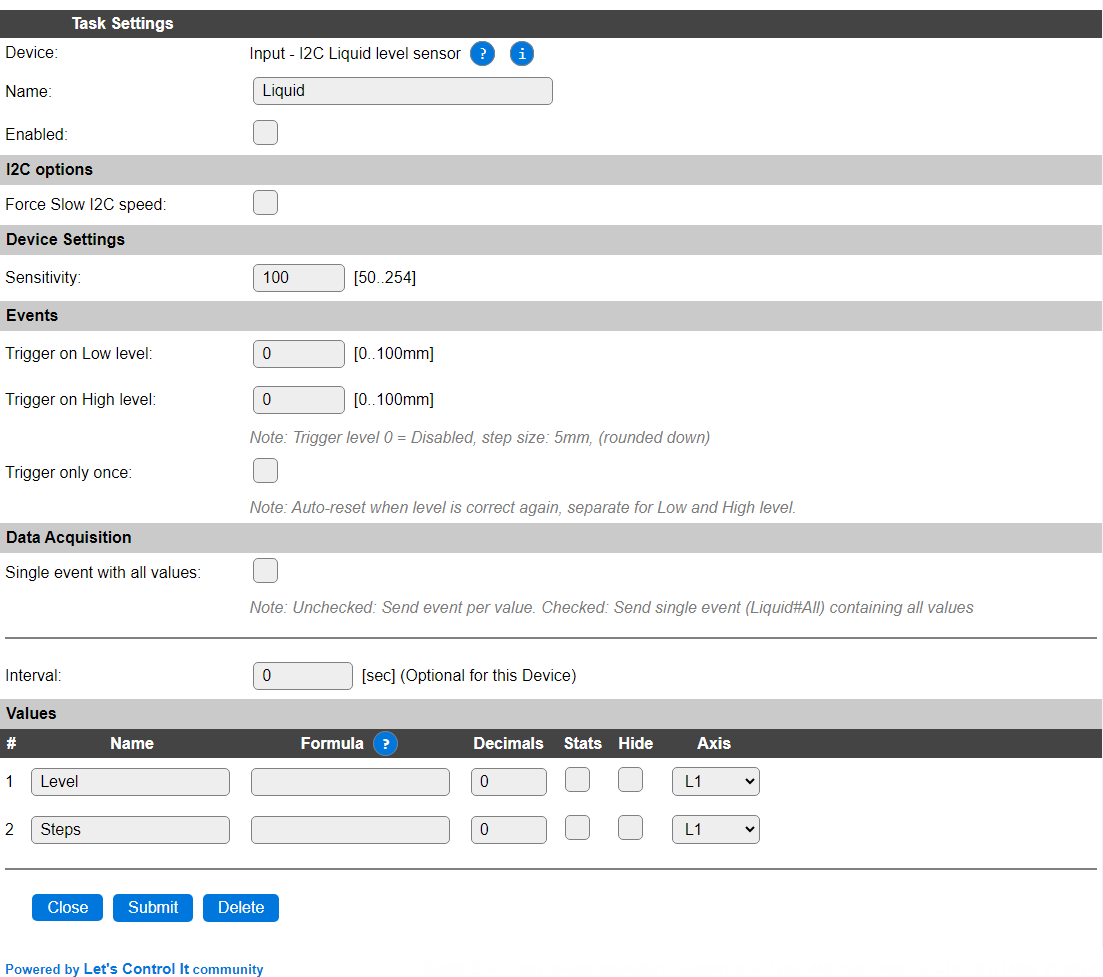
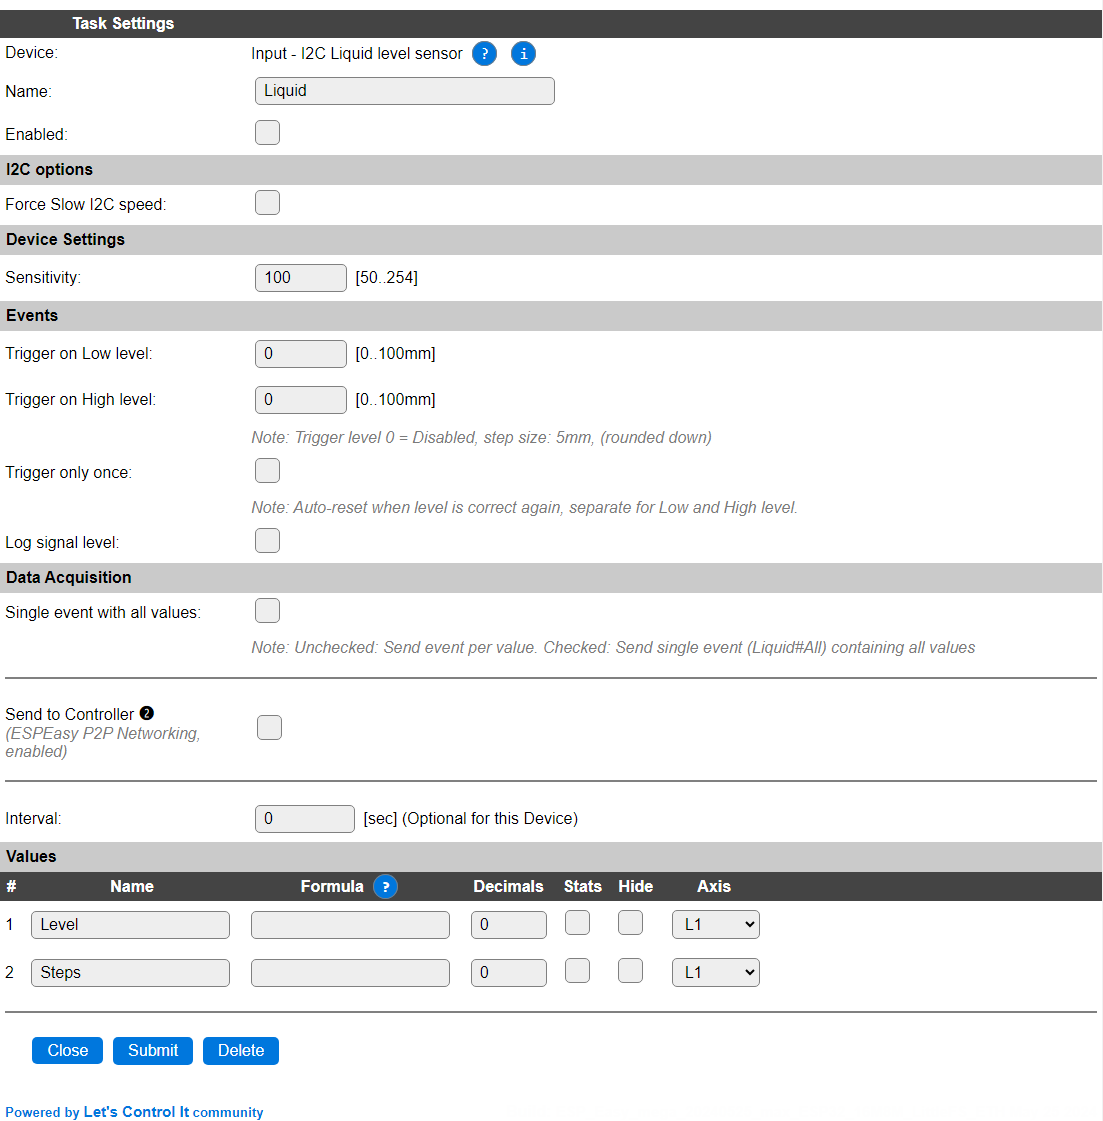
[P170] Add optional logging of received data

diff --git a/src/src/PluginStructs/P170_data_struct.cpp b/src/src/PluginStructs/P170_data_struct.cpp
@@ -5,7 +5,9 @@
 /**************************************************************************
 * Constructor
 **************************************************************************/
-P170_data_struct::P170_data_struct(uint8_t level) : _level(level) {}
+P170_data_struct::P170_data_struct(uint8_t level,
+                                   bool    log)
+  : _level(level), _log(log) {}
 
 /**************************************************************************
 * Start the plugin
@@ -80,11 +82,27 @@ bool P170_data_struct::plugin_read(struct EventStruct *event)           {
 *****************************************************/
 uint8_t P170_data_struct::getSteps() {
   uint8_t result = 0;
+  uint8_t max    = 0;
 
   for (int i = 0; i < P170_TOTAL_STEPS; ++i) {
     if (data[i] >= _level) {
       ++result;
     }
+
+    if (data[i] > max) {
+      max = data[i];
+    }
+  }
+
+  if (_log) {
+    String log;
+    log.reserve(80);
+
+    for (int i = 0; i < P170_TOTAL_STEPS; ++i) {
+      log += data[i];
+      log += ',';
+    }
+    addLog(LOG_LEVEL_INFO, strformat(F("LQLVL: Max level: %d, data: %s result: %d"), max, log.c_str(), result));
   }
 
   return result;

diff --git a/src/src/PluginStructs/P170_data_struct.h b/src/src/PluginStructs/P170_data_struct.h
@@ -20,11 +20,13 @@
 # define P170_TRIGGER_HIGH_LEVEL      PCONFIG(1)
 # define P170_TRIGGER_ONCE            PCONFIG(2)
 # define P170_STEP_ACTIVE_LEVEL       PCONFIG(3)
+# define P170_ENABLE_LOG              PCONFIG(4)
 
 struct P170_data_struct : public PluginTaskData_base {
 public:
 
-  P170_data_struct(uint8_t level);
+  P170_data_struct(uint8_t level,
+                   bool    log);
 
   P170_data_struct() = delete;
   virtual ~P170_data_struct() {}
@@ -43,6 +45,7 @@ private:
   bool    readLowSteps();
 
   uint8_t _level;
+  bool    _log;
 
   uint8_t data[P170_TOTAL_STEPS]{};
   uint8_t level;

diff --git a/docs/source/Plugin/P170.rst b/docs/source/Plugin/P170.rst
@@ -63,6 +63,8 @@ When a Trigger is set to 0 it will be disabled. Rules have to be enabled to be a
 
 * **Trigger only once**: When enabled, only a single event will be generated for a High or Low level trigger, until that state is reset and again passes the trigger level.
 
+* **Log signal level**: When enabled will log at Info level the received data from the sensor after reading. Can be used to find a suitable **Sensitivity** setting when the default doesn't work as expected. Should best be disabled during normal operation.
+
 Data Acquisition
 ^^^^^^^^^^^^^^^^
 
